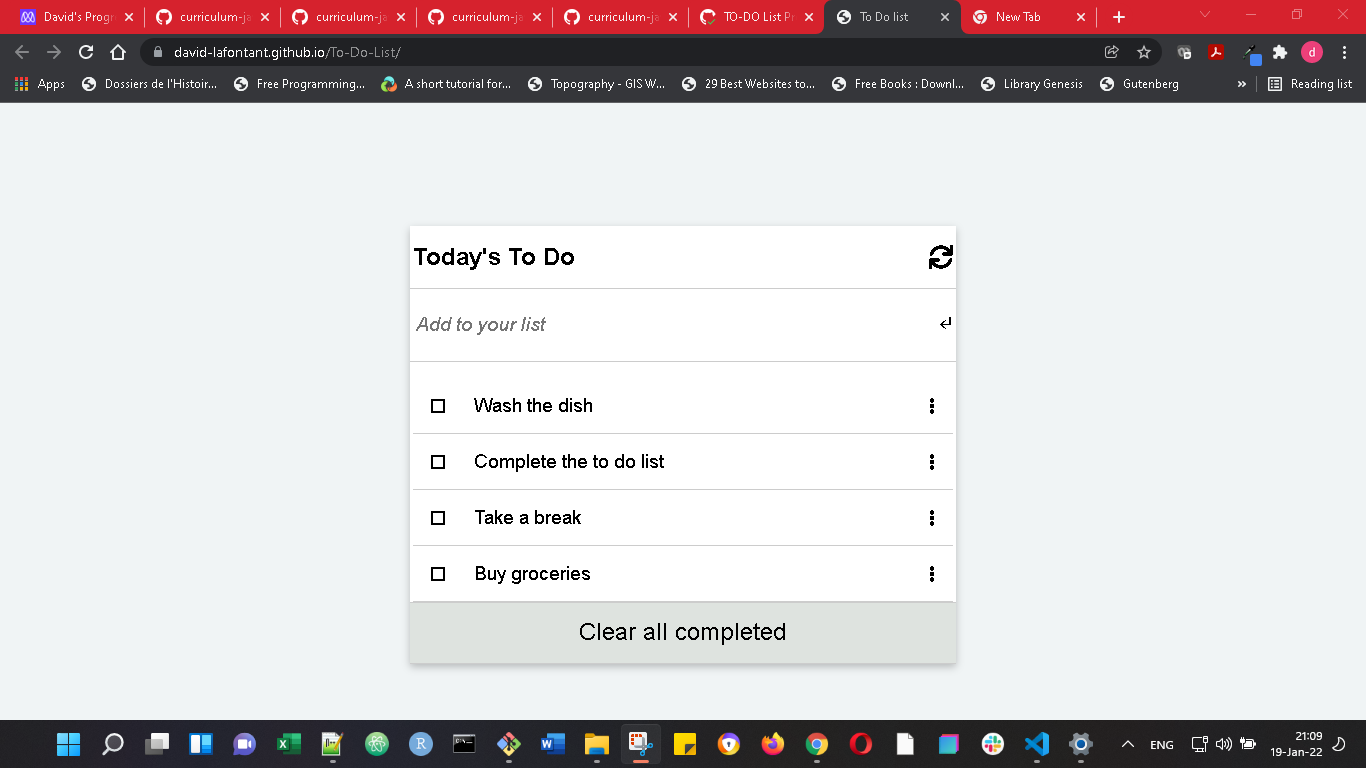
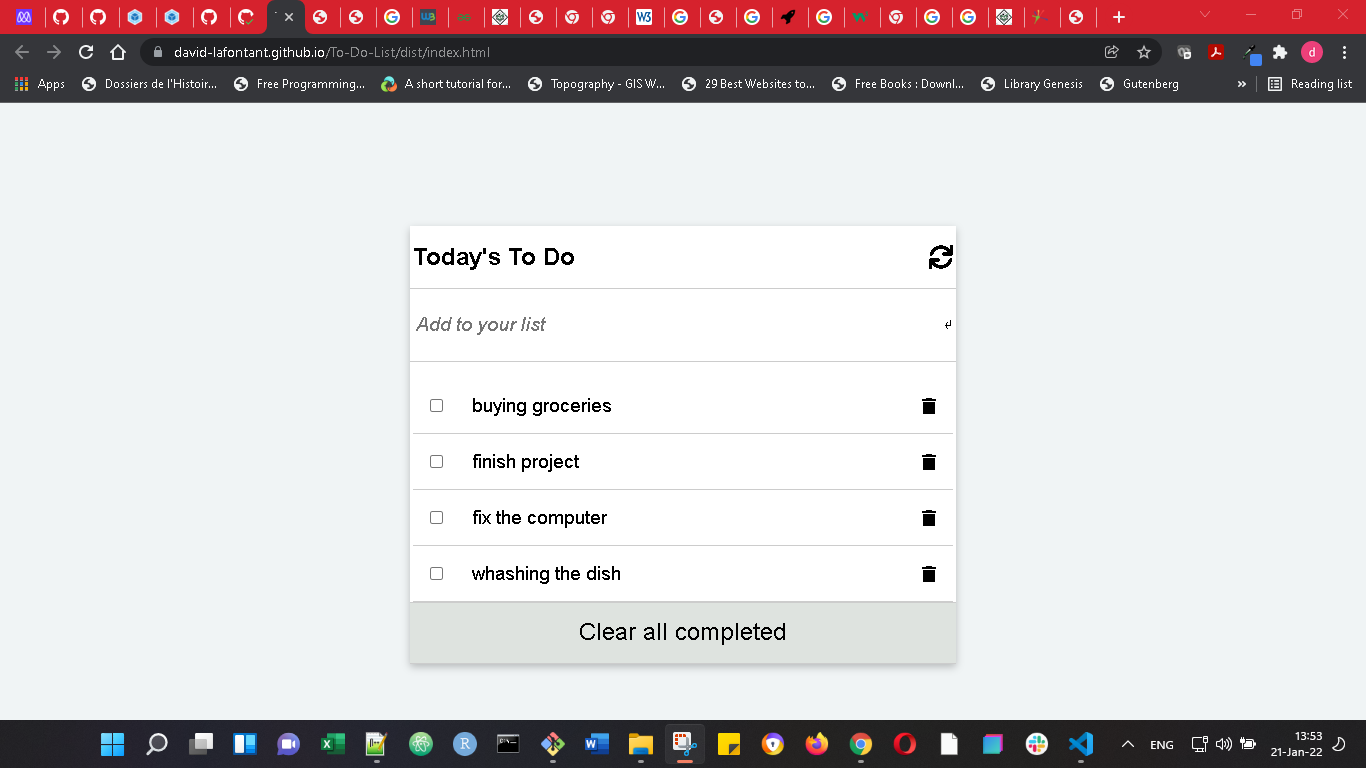
update README file

diff --git a/README.md b/README.md
@@ -21,7 +21,7 @@ TO-DO LIST is a basic website that allows users to add/remove task from a to-do 
 
 ## Live Demo
 
-[Live Demo Link](https://david-lafontant.github.io/To-Do-List/)
+[Live Demo Link](https://david-lafontant.github.io/To-Do-List/dist/index.html)
 
 
 ## Getting Started
